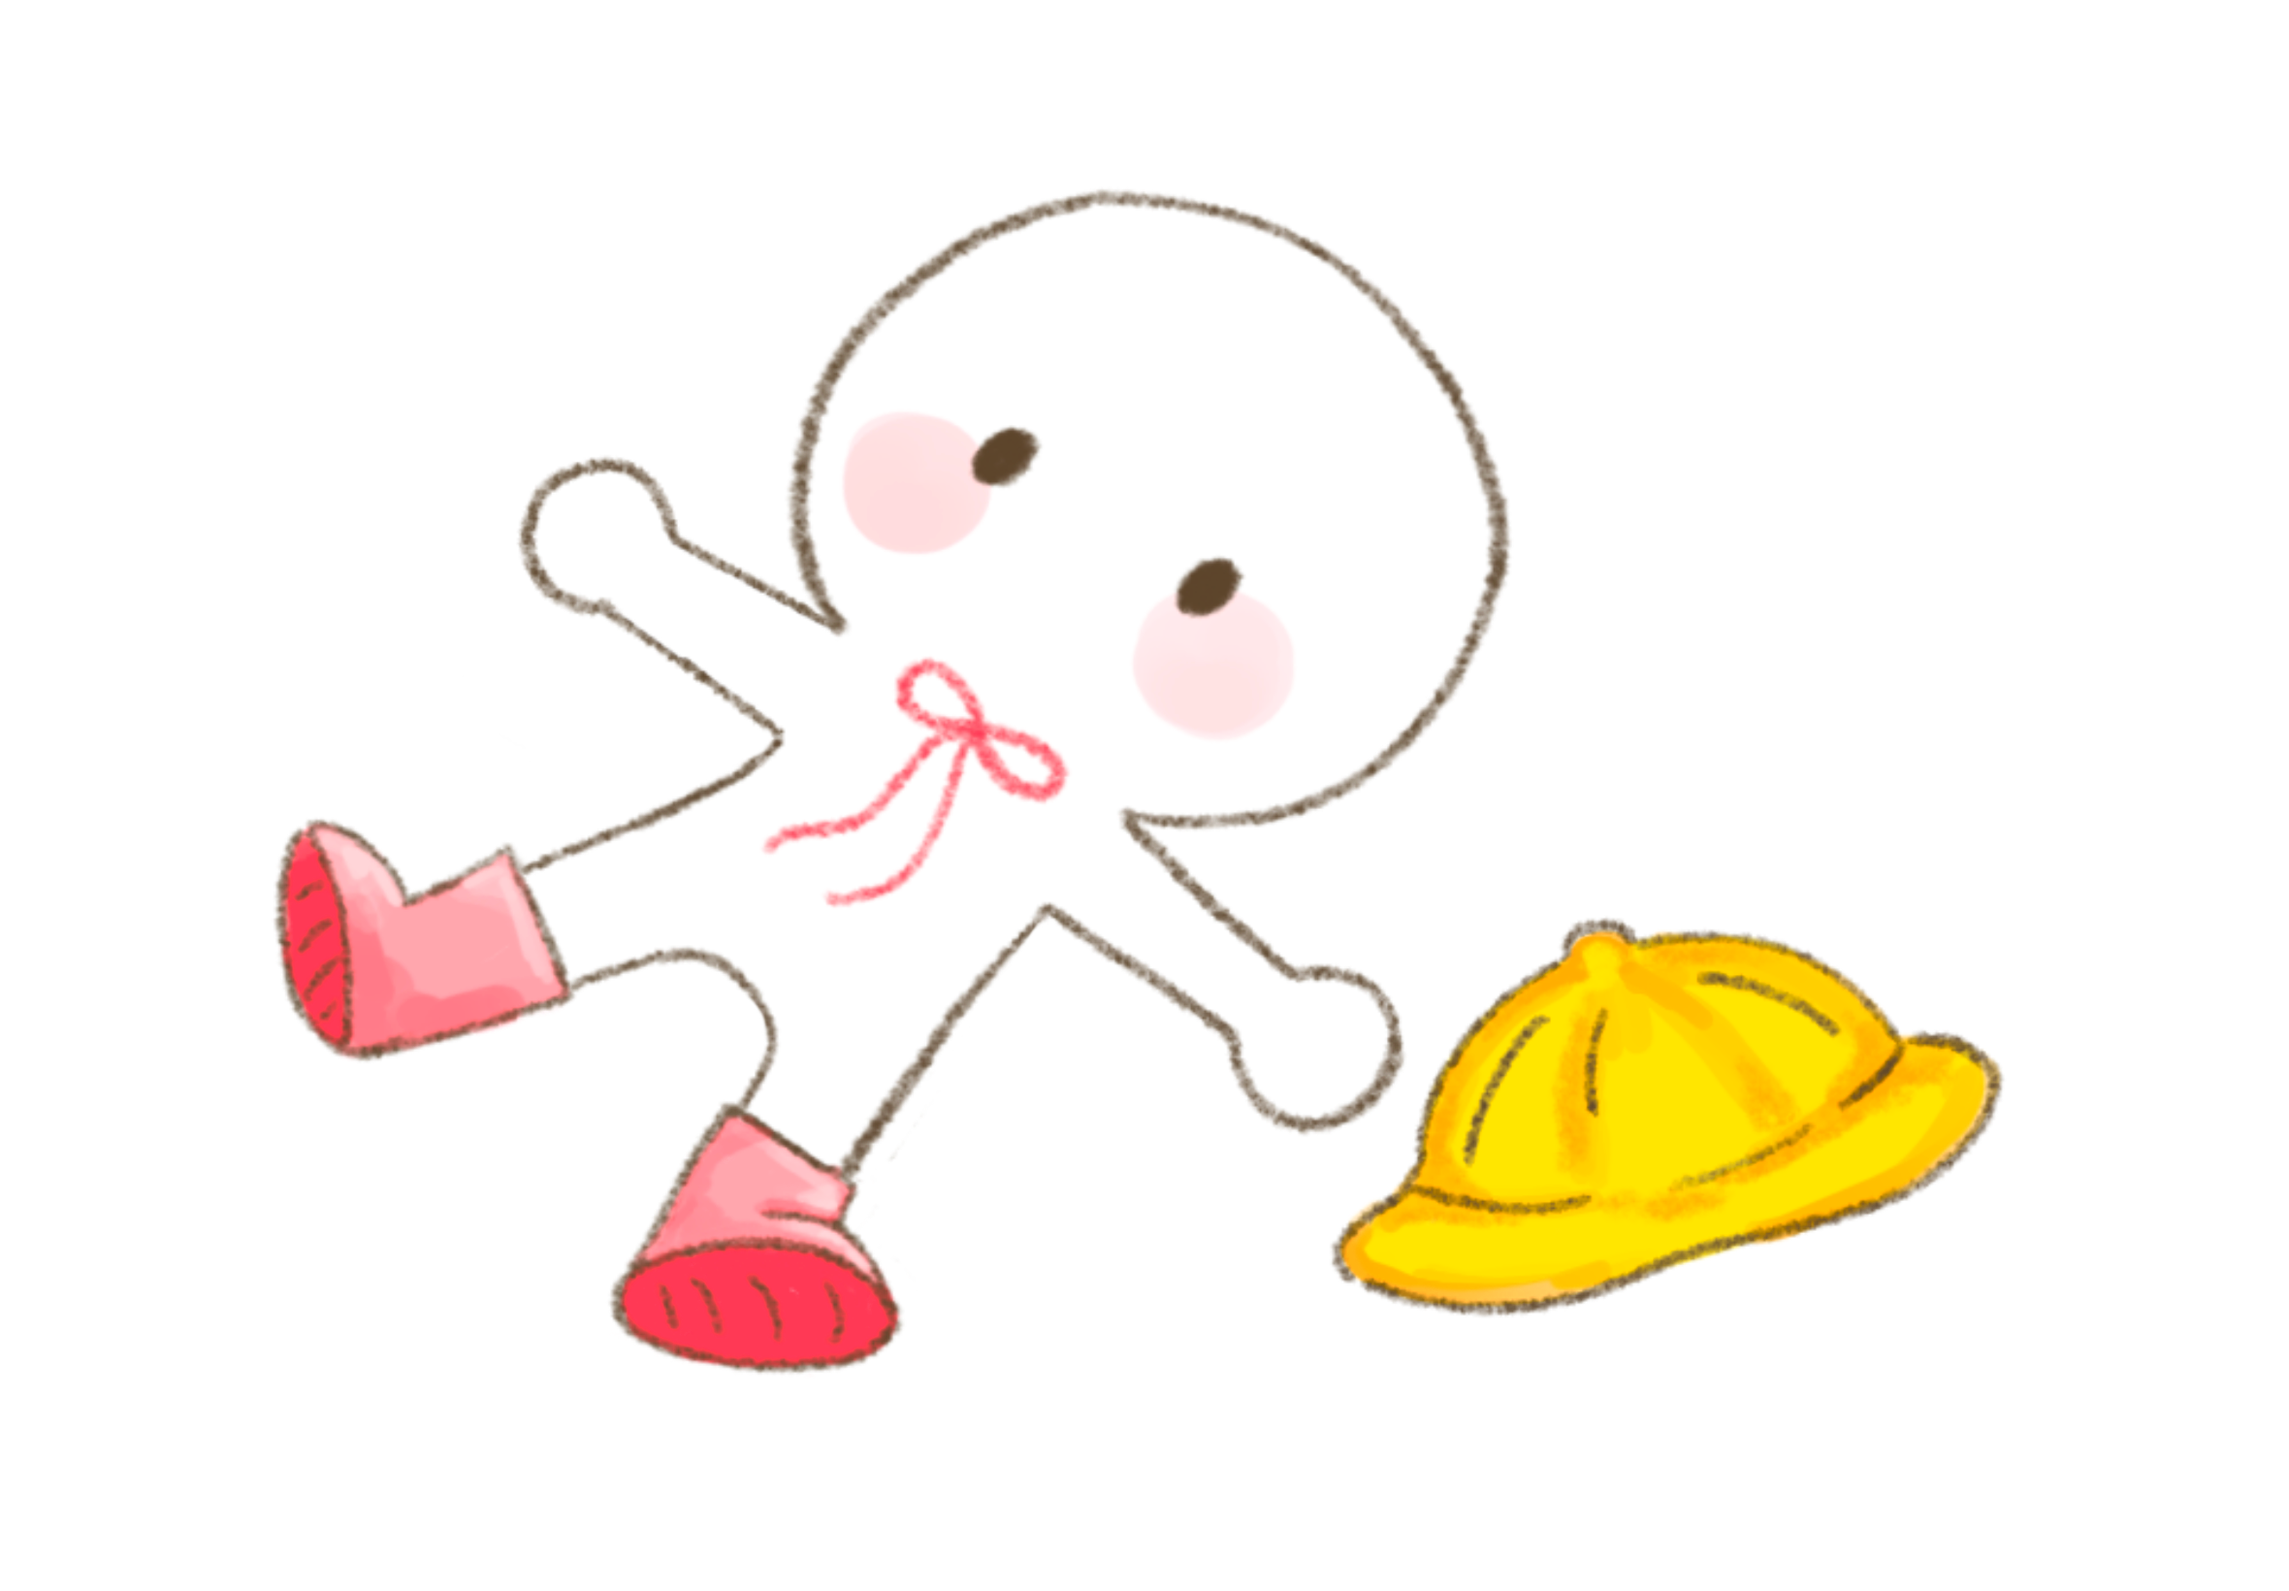
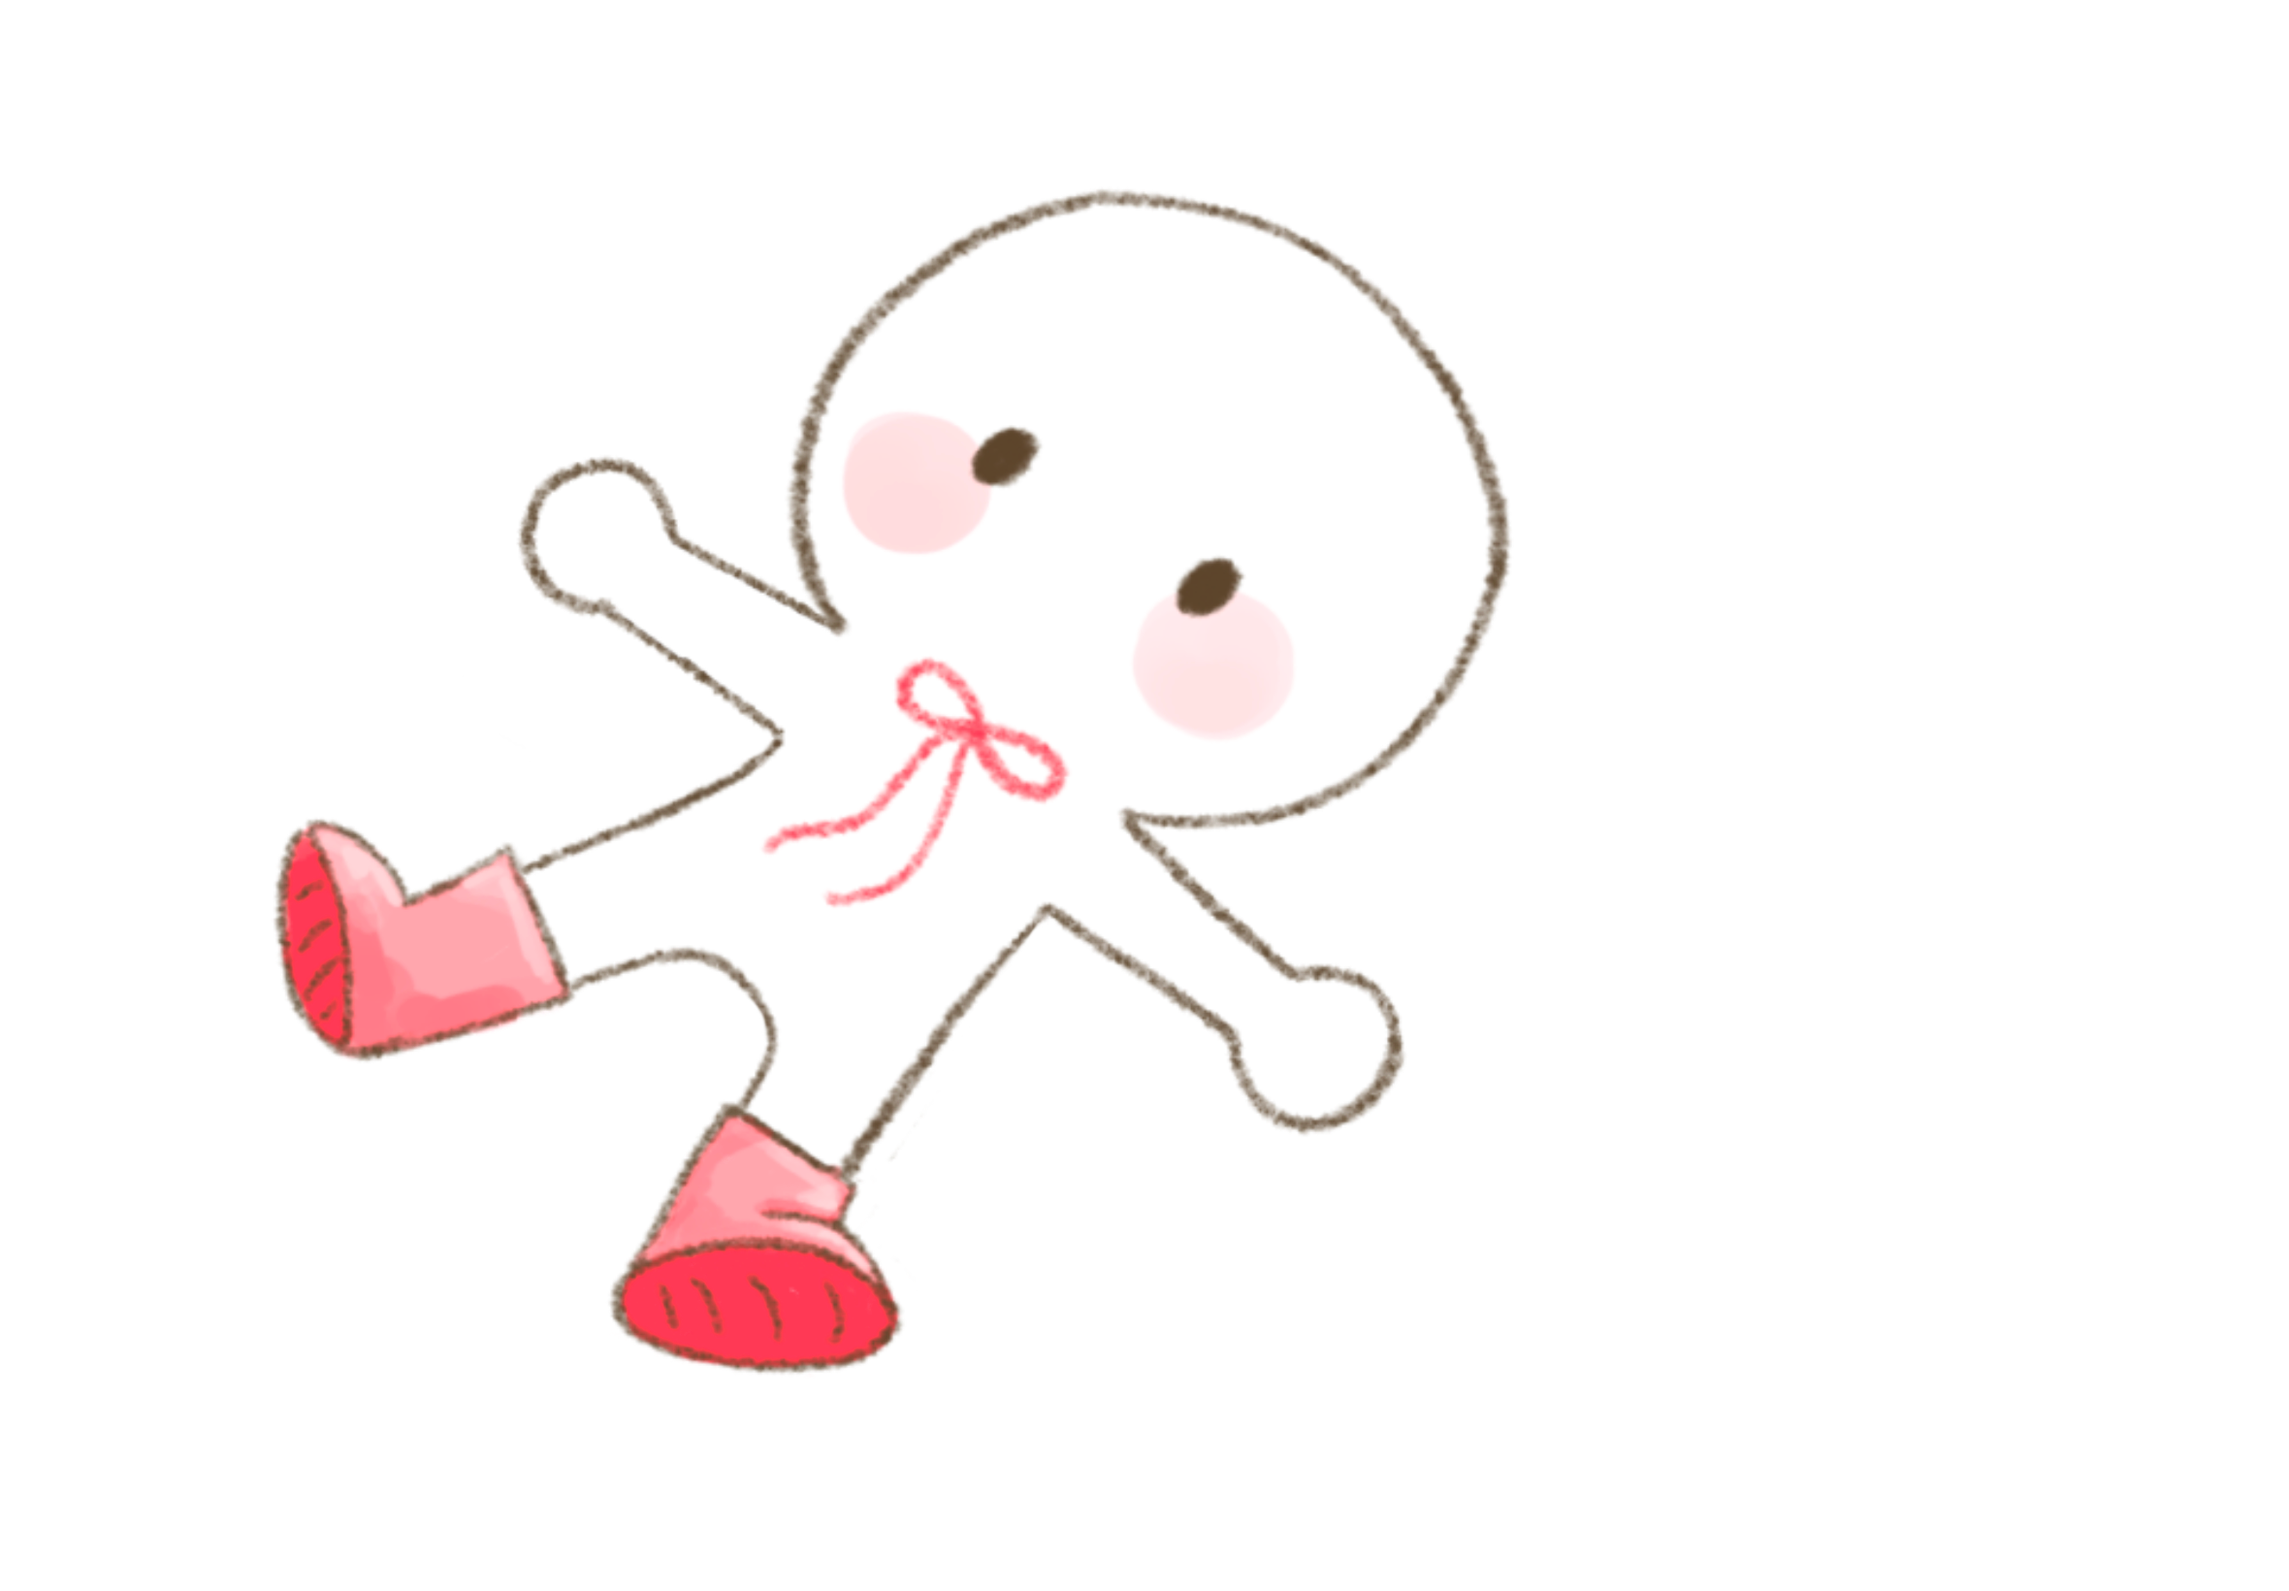
added buddy on start screen with hat

Changed region(s): [[0.5568, 0.5598, 0.897, 0.8396]]

diff --git a/StartScreen.js b/StartScreen.js
@@ -15,9 +15,51 @@ function drawSplashBackground() {
 }
 
 /**
- * Mascot on the splash mountain (right side of art), scaled to read as standing on the ridge.
- * Size is 2× the previous “one-third” caps (i.e. 2/3 of original 210 / 62% layout).
+ * Main menu mascot: liedown art (no tint/filter/animation — static liedown1, else liedown2).
+ * Falls back to startScreenBuddy if lie-down frames are missing.
  */
+function drawMainMenuLieDown() {
+  let img = null;
+  if (liedown1Img?.width) {
+    img = liedown1Img;
+  } else if (liedown2Img?.width) {
+    img = liedown2Img;
+  }
+  if (!img) {
+    drawStartScreenBuddy();
+    return;
+  }
+  const maxW = (210 / 3) * 2;
+  const maxH = ((VIEW_H * 0.62) / 3) * 2;
+  const scale = Math.min(maxW / img.width, maxH / img.height, 1) * 2;
+  const bw = img.width * scale;
+  const bh = img.height * scale;
+  const padX = 0;
+  const padY = -60;
+  const mountainLift = 108;
+  const cx = VIEW_W - padX - bw / 2;
+  const cy = VIEW_H - padY - bh / 2 - mountainLift;
+  imageMode(CENTER);
+  noTint();
+  image(img, cx, cy, bw, bh);
+
+  if (hatImg && hatImg.width) {
+    const hatTargetH = min(bh * 0.84, 260) * 1.25;
+    const hatScale = hatTargetH / hatImg.height;
+    const hatW = hatImg.width * hatScale;
+    const hatH = hatImg.height * hatScale;
+    // Clear space between blob’s right edge and hat’s left edge (px)
+    const hatGap = 300;
+    let hatCx = cx + bw / 2 + hatGap + hatW / 2;
+    const hatCy = cy - bh * 0.08;
+    hatCx = min(VIEW_W - hatW / 2, hatCx);
+    image(hatImg, hatCx, hatCy, hatW, hatH);
+  }
+
+  imageMode(CORNER);
+}
+
+/** Win screen / fallback: original standing buddy art. */
 function drawStartScreenBuddy() {
   if (!startScreenBuddyImg || !startScreenBuddyImg.width) return;
   const maxW = (210 / 3) * 2;
@@ -191,7 +233,7 @@ function drawCuteBackButton() {
 
 function drawMainMenu() {
   drawSplashBackground();
-  drawStartScreenBuddy();
+  drawMainMenuLieDown();
   drawDaisyNameLogo();
   for (const b of getMainMenuButtons()) {
     const { id, label, ...rect } = b;

diff --git a/sketch.js b/sketch.js
@@ -60,6 +60,9 @@ let daisyImg;
 let splashScreenImg;
 let daisyNameImg;
 let startScreenBuddyImg;
+let liedown1Img;
+let liedown2Img;
+let hatImg;
 let collectiblesData;
 let stars = [];
 let totalStarsCollected = 0;
@@ -111,6 +114,9 @@ function preload() {
   splashScreenImg = loadImage("assets/images/splashscreen.png");
   daisyNameImg = loadImage("assets/images/daisyname.png");
   startScreenBuddyImg = loadImage("assets/images/startscreenbuddy.png");
+  liedown1Img = loadImage("assets/images/liedown1.png");
+  liedown2Img = loadImage("assets/images/liedown2.png");
+  hatImg = loadImage("assets/images/hat.png");
 }
 
 function setup() {
